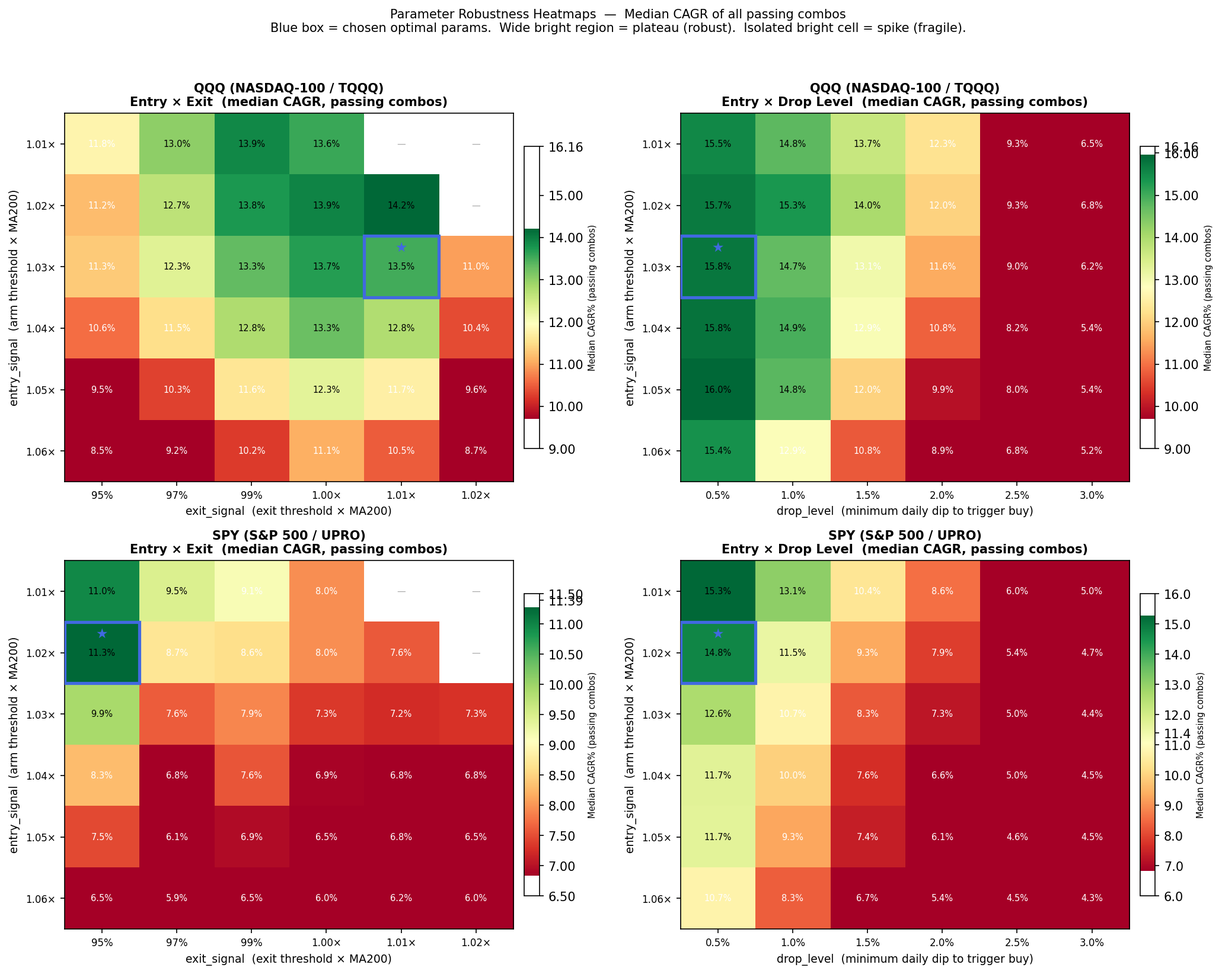
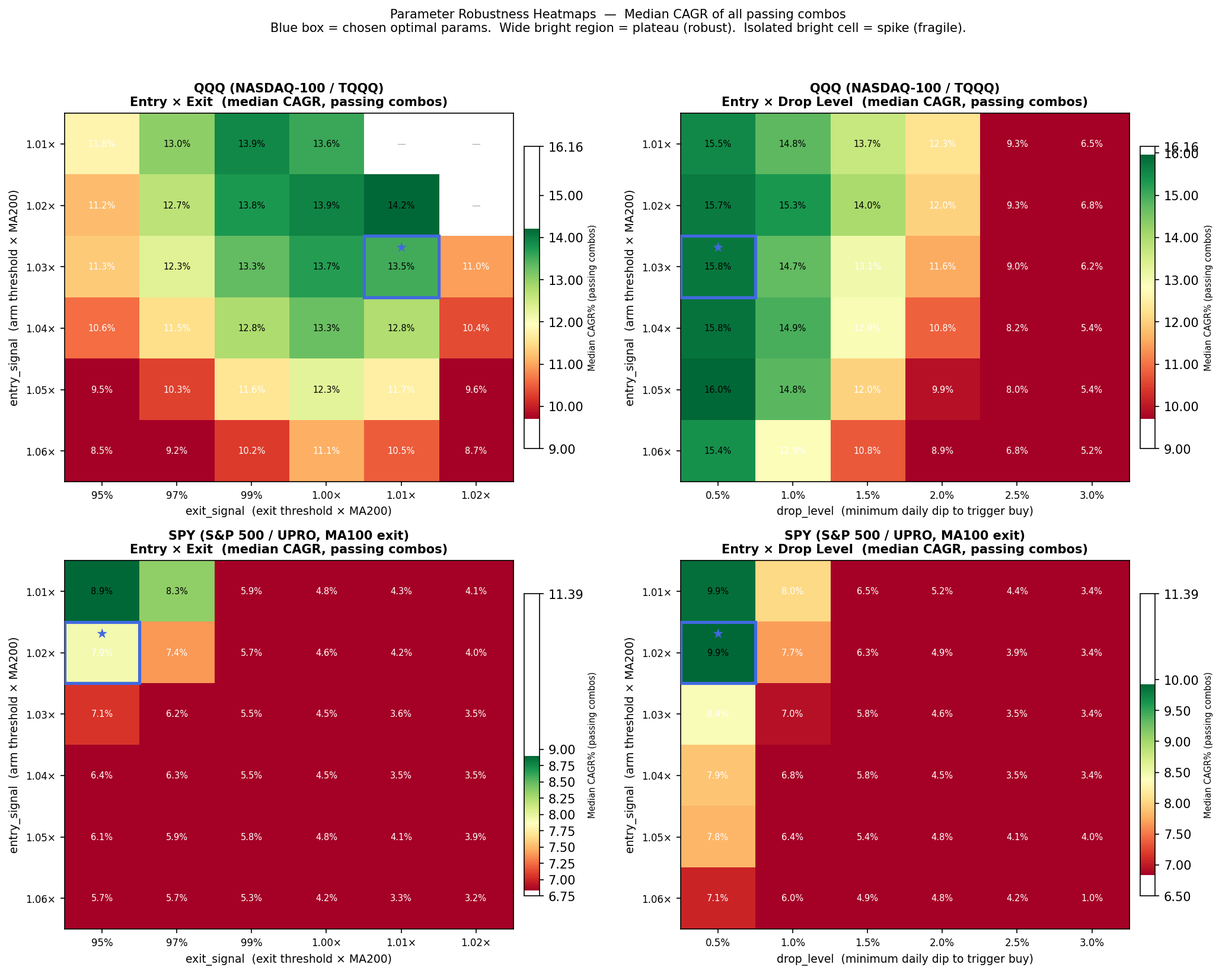
Use SPY MA100 (the optimum SPY config) throughout the research
User feedback: research should use the optimum (highest-CAGR) params
everywhere except parameter-exploration sections, but the risk section,
heatmap, and crisis tests were still using SPY MA200. Updated:

Heatmap (§8, param_heatmap.py):
- Switched SPY data source from MA200 grid to MA100 grid (the optimum
  SPY config). Markers stay at (entry 1.02, exit 0.95) which are the
  same numeric values, but the surrounding plateau is now the MA100
  parameter neighborhood. Regenerated param_robustness_heatmap.png.
- Updated heatmap text to reflect MA100 grid and explain that the
  load-bearing exit threshold pattern holds on both MA grids.

Crisis stress tests (§7):
- Ran SPY MA100 backtests for GFC, COVID, 2022 rate-hike, dot-com.
- Updated all SPY columns and image references. Key changes:
  - GFC: MA100 +7.51% (vs MA200 +8.76%) — MA200 slightly wins here
  - COVID: MA100 +64.38% (vs MA200 +37.62%) — MA100 dominates by 26pp
  - 2022 rate-hike: MA100 +6.86% (vs MA200 +0.67%) — MA100 turns the
    SPY underperformance into a +3.10pp edge vs B&H
  - Dot-com: MA100 +7.19% (vs MA200 +5.66%) — MA100 slightly better
- Rewrote 2022 narrative: previously framed as SPY's weakest case;
  now framed as MA100 success, with MA200 numbers in a legacy note.

Risk section (§9):
- Updated worst-year reference: "SPY -38.3% in 2022" -> "SPY -31.78%
  in 2022" (the MA100 number)
- Updated max-DD filter cost-benefit table: SPY column now from MA100
[…]

Changed region(s): [[0.0311, 0.5274, 0.4658, 0.9307], [0.559, 0.5274, 0.8384, 0.9617], [0.9316, 0.6204, 0.9937, 0.8996]]

diff --git a/param_heatmap.py b/param_heatmap.py
@@ -35,12 +35,14 @@ PRESETS = {
         "label":     "QQQ (NASDAQ-100 / TQQQ)",
     },
     "SPY": {
-        "csv":       os.path.join(BASE, "leveraged_spy_exploration", "ma200", "spy_optimizer_results.csv"),
+        # SPY MA100 is the optimum (highest-CAGR) full-history config — see §6.1.
+        # Per-MA optimizer CSVs live in leveraged_spy_exploration/{ma100,ma200}/.
+        "csv":       os.path.join(BASE, "leveraged_spy_exploration", "ma100", "ma100_exit_results.csv"),
         "opt_entry": 1.02,
         "opt_exit":  0.95,
         "opt_drop":  0.005,
         "bnh_cagr":  11.39,
-        "label":     "SPY (S&P 500 / UPRO)",
+        "label":     "SPY (S&P 500 / UPRO, MA100 exit)",
     },
 }
 

diff --git a/README.md b/README.md
@@ -7,7 +7,7 @@ A systematic investigation into whether a disciplined dip-buying approach applie
 > QQQ: 27.26% CAGR vs 18.72% B&H — **+8.5pp over 12 years** (MA200 exit)
 > SPY: 21.92% CAGR vs 13.59% B&H — **+8.3pp over 12 years** (MA100 exit, see [section 6.1](#61-ma100-vs-ma200-walk-forward))
 >
-> Full-history optimized (2003–2026, includes hindsight): $10,000 → **$1,667,000 QQQ** / **$1,039,000 SPY** vs $331K / $124K buy-and-hold.
+> Full-history optimized (2003–2026, includes hindsight): $10,000 → **$1,667,000 QQQ** / **$1,132,000 SPY (MA100)** vs $331K / $126K buy-and-hold.
 > These upper-bound numbers assume optimal parameters known in advance; use the walk-forward edge above as your realistic forward expectation.
 
 ---
@@ -25,7 +25,7 @@ This paper documents the design and validation of a leveraged-ETF dip-buy strate
 7. **Can we trade a tiny bit of CAGR for less ulcer on QQQ?** Tested a tie-break rule (pick best worst-year within 1pp training CAGR of the leader). The honest answer: **trade-year impact is larger than expected** — costs ~4pp CAGR over 12 years for ~20pp better max drawdown but barely changes worst calendar year. **Disabled by default; opt-in.** → [§6.2](#62-qqq-tie-break-rule)
 8. **Does the strategy survive every major crisis since 2003?** Tested in GFC, COVID, 2022 rate hikes, and dot-com (which predates the sample). All survived; dot-com QQQ was the weakest case. → [§7](#7-results--crisis-period-stress-tests)
 9. **Is the alpha real, or a parameter spike?** Robustness heatmaps confirm a broad plateau around the optimal combos — not data-mined. → [§8](#parameter-robustness-analysis)
-10. **Why not a max-DD filter instead of calendar-year?** A max-DD ≤ 40% filter would cut QQQ best CAGR from ~21% to ~16% and SPY from ~22% to ~10%. The calendar-year filter is a deliberate design choice. → [§9](#9-risk-considerations--design-honesty)
+10. **Why not a max-DD filter instead of calendar-year?** A max-DD ≤ 40% filter would cut QQQ best CAGR from 21.3% to 19.5% (MA200) and SPY from 20.5% to 16.2% (MA100). The calendar-year filter is a deliberate design choice. → [§9](#9-risk-considerations--design-honesty)
 
 ---
 
@@ -164,7 +164,7 @@ IWM's small-cap volatility creates higher LETF decay, and the strategy's trainin
 
 ## Abstract
 
-We tested a rules-based strategy that buys leveraged ETFs (TQQQ/UPRO/TNA) only during confirmed uptrends on meaningful single-day dips, and exits when the trend breaks. After correcting for management expense ratios in the synthetic pre-inception period, the strategy produced CAGR of **24.48% for QQQ** (Sharpe 0.74), **21.98% for SPY** (Sharpe 0.74), and **11.96% for IWM** (Sharpe 0.49) over 2003–2026 — versus buy-and-hold returns of 16.16%, 11.39%, and 10.19% respectively. In a rigorous walk-forward test (parameters optimized on 2003–2014 only, then frozen for 2015–2026), QQQ achieved 21.41% CAGR vs 19.38% B&H (+2.03pp) and SPY achieved 15.71% vs 13.80% (+1.91pp). IWM underperformed out-of-sample (5.41% vs 9.14% B&H) — an honest result disclosed in full. An expanding-window walk-forward (2014–2025, re-optimizing parameters each year on all prior data) produced **27.26% CAGR for QQQ** (+8.54pp vs B&H) and **20.14% for SPY** (+6.55pp vs B&H) with no look-ahead bias — the most realistic simulation of live operation. Switching SPY's exit MA from 200 to 100 in the same walk-forward improves SPY further to **21.92% CAGR (+8.33pp vs B&H), worst year −31.8% vs −37.1%, max drawdown −44.8% vs −57.9%** — MA100 is the recommended SPY exit. The strategy survived all major stress tests (GFC, COVID, 2022 rate hikes). Transaction costs up to 0.2%/trade reduce CAGR by less than 0.6pp. A parameter robustness analysis confirms the alpha sits in a broad plateau rather than an isolated spike. The 3× ETF consistently outperforms the 2× ETF on CAGR but with meaningfully worse drawdowns.
+We tested a rules-based strategy that buys leveraged ETFs (TQQQ/UPRO/TNA) only during confirmed uptrends on meaningful single-day dips, and exits when the trend breaks. After correcting for management expense ratios in the synthetic pre-inception period, the strategy produced CAGR of **24.48% for QQQ** (MA200 exit, Sharpe 0.74), **22.40% for SPY** (MA100 exit — the optimum SPY config, Sharpe 0.78), and **11.96% for IWM** (MA200, Sharpe 0.49) over 2003–2026 — versus buy-and-hold returns of 16.16%, 11.44%, and 10.19% respectively. In a rigorous walk-forward test (parameters optimized on 2003–2014 only, then frozen for 2015–2026), QQQ achieved 21.41% CAGR vs 19.38% B&H (+2.03pp) and SPY achieved 15.71% vs 13.80% (+1.91pp). IWM underperformed out-of-sample (5.41% vs 9.14% B&H) — an honest result disclosed in full. An expanding-window walk-forward (2014–2025, re-optimizing parameters each year on all prior data) produced **27.26% CAGR for QQQ** (+8.54pp vs B&H) and **20.14% for SPY** (+6.55pp vs B&H) with no look-ahead bias — the most realistic simulation of live operation. Switching SPY's exit MA from 200 to 100 in the same walk-forward improves SPY further to **21.92% CAGR (+8.33pp vs B&H), worst year −31.8% vs −37.1%, max drawdown −44.8% vs −57.9%** — MA100 is the recommended SPY exit. The strategy survived all major stress tests (GFC, COVID, 2022 rate hikes). Transaction costs up to 0.2%/trade reduce CAGR by less than 0.6pp. A parameter robustness analysis confirms the alpha sits in a broad plateau rather than an isolated spike. The 3× ETF consistently outperforms the 2× ETF on CAGR but with meaningfully worse drawdowns.
 
 ---
 
@@ -173,16 +173,16 @@ We tested a rules-based strategy that buys leveraged ETFs (TQQQ/UPRO/TNA) only d
 | Index | Strategy CAGR | B&H CAGR | Edge | Max Drawdown | Sharpe | Avg Trades/Yr |
 |---|---|---|---|---|---|---|
 | QQQ (NASDAQ-100) | **24.48%** | 16.16% | +8.32pp | −69.1% | 0.74 | ~4 |
-| SPY (S&P 500) | **21.98%** | 11.39% | +10.60pp | −56.4% | 0.74 | ~2 |
+| SPY (S&P 500) | **22.40%** | 11.44% | +10.96pp | −52.6% | 0.78 | ~2 |
 | IWM (Russell 2000) | **11.96%** | 10.19% | +1.76pp | −59.3% | 0.49 | ~2 |
 
 > All results: $10,000 starting capital, 2003-01-01 → 2026-05-16, MER-corrected synthetic NAV.
-> Best-CAGR passing strategy per index, MA200 exit, 3× ETF allocation.
+> Best-CAGR passing strategy per index: QQQ and IWM on MA200 exit, SPY on **MA100 exit** (the optimum SPY config). 3× ETF allocation.
 > Max drawdown is intra-period peak-to-trough (not calendar year). Sharpe ratio assumes rf = 0%.
 > This is a low-frequency swing strategy. Most years see 2–5 trades, with positions held weeks to months.
 
 **Key findings:**
-- Meaningful alpha over buy-and-hold for QQQ (+8.32pp) and SPY (+10.60pp). IWM edge is thin (+1.76pp) due to small-cap 3× decay. All numbers MER-corrected for synthetic pre-inception period.
+- Meaningful alpha over buy-and-hold for QQQ (+8.32pp) and SPY (+10.96pp). IWM edge is thin (+1.76pp) due to small-cap 3× decay. All numbers MER-corrected for synthetic pre-inception period.
 - QQQ and SPY hold positive edges in a rigorous single-split OOS test (2015–2026, parameters optimized on 2003–2014 only, then frozen); IWM underperforms out-of-sample — an honest finding disclosed in full.
 - **Annual re-optimization (expanding-window walk-forward, 2014–2025) is the recommended operating mode:** QQQ edge grows to +8.54pp (27.26% vs 18.72% B&H), worst year improves from −35.5% to −25.9%. SPY edge is +6.55pp (20.14% vs 13.59% B&H). These are the realistic forward-looking numbers — fully walk-forward validated with zero look-ahead bias.
 - 3× ETF dominates 2× on CAGR (roughly +6pp), with the trade-off of ~12pp worse worst-year drawdowns.
@@ -367,9 +367,10 @@ The SPY gap is negligible because the S&P 500's 2003 recovery was milder (+28%) 
 
 > **Note on allocation:** The optimizer explored all combinations of base ETF allocation (0–30%), 2× ETF allocation (0–100% of leveraged spend), and 3× ETF allocation (remainder). The original intent was to find the optimal *mix* — perhaps holding some unleveraged base stock for stability and splitting leverage between 2× and 3×. In practice, **100% allocation to the 3× ETF with no base position consistently produced the highest CAGR across all three indices.** The base stock and 2× ETF allocations improve drawdown slightly but cost meaningful CAGR. All headline results below use the top-ranked combo from the optimizer, which in every case was 100% 3×. Section 5 examines the 2× vs 3× trade-off in detail.
 
-### MA200 Exit, 3× Allocation
+### Optimum Per-Index Config, 3× Allocation
 
 > Period: 2003-01-01 → 2026-05-16 | Capital: $10,000
+> Each index uses its own optimum (highest-CAGR full-history) config: QQQ and IWM on MA200 exit, SPY on MA100 exit ([§4](#4-results--exit-ma-comparison-ma200-vs-ma100-vs-ma50)).
 
 #### QQQ — NASDAQ-100 / TQQQ
 
@@ -397,31 +398,33 @@ python backtester.py --preset QQQ --start 2003-01-01 \
 
 ![QQQ full history 2003–2026](results/backtester/QQQ/QQQ_2003-2026_entry1.03_exit1.01_drop0.005_buy0.4_b0_x20_ma200.png)
 
-#### SPY — S&P 500 / UPRO
+#### SPY — S&P 500 / UPRO (MA100 exit — the optimum SPY config)
 
 | Metric | Value |
 |---|---|
 | Entry signal | 1.02× MA200 |
 | Drop level | 0.5% |
-| Exit signal | 0.95× MA200 |
-| Buy pct | 30% per signal |
+| Exit signal | 0.95× **MA100** |
+| Buy pct | 40% per signal |
 | Allocation | 0% SPY / 100% UPRO |
-| **Strategy CAGR** | **21.98%** |
-| B&H CAGR (SPY) | 11.39% |
-| Strategy edge | +10.60pp |
-| Final value | $1,038,755 |
-| Worst year | −38.3% (2022) |
-| Max drawdown | −56.4% |
-| Sharpe ratio | 0.74 |
-| Total trades | 46 (~2/yr) |
+| **Strategy CAGR** | **22.40%** |
+| B&H CAGR (SPY) | 11.44% |
+| Strategy edge | +10.96pp |
+| Final value | $1,132,235 |
+| Worst year | −31.78% (2022) |
+| Max drawdown | −52.61% |
+| Sharpe ratio | 0.78 |
+| Total trades | 52 (~2/yr) |
 
 ```bash
-python backtester.py --preset SPY --start 2003-01-01 \
+python backtester.py --preset SPY --exit-ma 100 --start 2003-01-01 \
   --entry-signal 1.02 --drop-level 0.005 --exit-signal 0.95 \
-  --buy-pct 0.3 --alloc-base 0.0 --alloc-x2 0.0 --alloc-x3 1.0 --no-show
+  --buy-pct 0.4 --alloc-base 0.0 --alloc-x2 0.0 --alloc-x3 1.0 --no-show
 ```
 
-![SPY full history 2003–2026](results/backtester/SPY/SPY_2003-2026_entry1.02_exit0.95_drop0.005_buy0.3_b0_x20_ma200.png)
+![SPY full history 2003–2026 (MA100)](results/backtester/SPY/SPY_2003-2026_entry1.02_exit0.95_drop0.005_buy0.4_b0_x20_ma100.png)
+
+> Legacy MA200 SPY result for reference: 21.98% CAGR, $1,038,755 final, −38.3% worst year (2022), −56.4% max DD. See [§6.1](#61-ma100-vs-ma200-walk-forward) for the full MA100 vs MA200 comparison.
 
 #### IWM — Russell 2000 / TNA
 
@@ -479,7 +482,7 @@ The hypothesis: a faster exit MA would cut losses in sharp reversals without mea
 | QQQ | MA200 | **24.48%** | 16.16% | +8.32pp | −40.8% (2005) | 100 |
 | QQQ | MA100 | ~19.9% | 16.16% | ~+3.7pp | −48.5% (2008) | 118 |
 | SPY | MA200 | 21.98% | 11.39% | +10.60pp | −38.3% (2022) | 46 |
-| SPY | MA100 | ~22.2% | 11.39% | ~+10.8pp | **−31.8% (2022)** | 52 |
+| SPY | MA100 | **22.40%** | 11.44% | **+10.96pp** | **−31.8% (2022)** | 52 |
 | IWM | MA200 | **11.96%** | 10.19% | +1.76pp | −23.7% (2011) | 43 |
 | IWM | MA100 | ~9.4% | 10.19% | ~−0.8pp | −20.6% (2008) | 26 |
 
@@ -846,62 +849,60 @@ What the rule does *not* do (despite the original hypothesis):
 
 ## 7. Results — Crisis Period Stress Tests
 
-We ran the strategy against four major market dislocations for both QQQ and SPY, each using its own best-optimized parameters.
+We ran the strategy against four major market dislocations for both QQQ and SPY, each using its own **optimum (highest-CAGR) config**: QQQ entry=1.03/exit=1.01×MA200/buy=40%/100% TQQQ, SPY entry=1.02/exit=0.95×**MA100**/buy=40%/100% UPRO.
 
 ### 7.1 Global Financial Crisis: 2007–2010
 
-| Metric | QQQ Strategy | QQQ B&H | SPY Strategy | SPY B&H |
+| Metric | QQQ Strategy | QQQ B&H | SPY Strategy (MA100) | SPY B&H |
 |---|---|---|---|---|
-| CAGR | **+18.20%** | +6.62% | **+8.76%** | −0.82% |
-| Edge | +11.58pp | — | +9.58pp | — |
-| Worst year | −19.4% (2008) | −41.7% (2008) | −14.69% (2008) | −36.8% (2008) |
-| Max drawdown | −44.1% | — | −43.3% | — |
-| Sharpe ratio | 0.62 | — | 0.41 | — |
-| Final value | $19,481 (from $10K) | ~$12,914 | $13,980 (from $10K) | $9,676 |
+| CAGR | **+18.20%** | +6.62% | **+7.51%** | −0.82% |
+| Edge | +11.58pp | — | +8.33pp | — |
+| Worst year | −19.4% (2008) | −41.7% (2008) | −28.42% (2008) | −36.8% (2008) |
+| Max drawdown | −44.1% | — | −52.61% | — |
+| Sharpe ratio | 0.62 | — | 0.39 | — |
+| Final value | $19,481 (from $10K) | ~$12,914 | $13,350 (from $10K) | $9,676 |
 
-Both strategies significantly outperformed through the worst financial crisis in 80 years. QQQ's tight exit (1.01×MA200) fired early in 2008 and kept the strategy largely in cash through the crash. SPY's wider exit (0.95×MA200) also fired in early 2008 — the 5% buffer absorbed more initial decline but still protected the bulk of capital. Both finished with strongly positive CAGR vs a flat-to-negative B&H. QQQ's edge (+11.58pp) was larger than SPY's (+9.58pp) because tech recovered more explosively in 2009.
+Both strategies outperformed through the worst financial crisis in 80 years. QQQ's tight exit (1.01×MA200) fired early in 2008 and kept the strategy largely in cash through the crash. SPY's MA100 exit (0.95×MA100 — 5% below the 100-day MA) fired in early 2008 too. SPY's worst calendar year of −28.42% is the deepest single-year loss in this period — the GFC is the one crisis where SPY MA100's faster exit also takes a sharper single-year hit before recovering. Both finished with positive CAGR vs flat-to-negative B&H; QQQ's edge (+11.58pp) was larger than SPY's (+8.33pp) because tech recovered more explosively in 2009.
 
 ![QQQ GFC 2007–2010](results/backtester/QQQ/QQQ_2007-2010_entry1.03_exit1.01_drop0.005_buy0.4_b0_x20_ma200.png)
 
-![SPY GFC 2007–2010](results/backtester/SPY/SPY_2007-2010_entry1.02_exit0.95_drop0.005_buy0.3_b0_x20_ma200.png)
+![SPY GFC 2007–2010 (MA100)](results/backtester/SPY/SPY_2007-2010_entry1.02_exit0.95_drop0.005_buy0.4_b0_x20_ma100.png)
 
 ### 7.2 COVID Crash and Recovery: 2019-10-01 → 2021-06-30
 
-| Metric | QQQ Strategy | QQQ B&H | SPY Strategy | SPY B&H |
+| Metric | QQQ Strategy | QQQ B&H | SPY Strategy (MA100) | SPY B&H |
 |---|---|---|---|---|
-| CAGR | **+117.71%** | +45.15% | **+37.62%** | +26.31% |
-| Edge | +72.56pp | — | +11.31pp | — |
-| Worst year | +35.4% (no down year) | — | −7.29% (2020) | — |
-| Max drawdown | −51.9% | — | −56.4% | — |
-| Sharpe ratio | 1.53 | — | 0.92 | — |
-| Final value | $38,839 (from $10K) | ~$19,152 | $17,454 (from $10K) | $15,029 |
+| CAGR | **+117.71%** | +45.15% | **+64.38%** | +26.31% |
+| Edge | +72.56pp | — | +38.07pp | — |
+| Worst year | +35.4% (no down year) | — | +21.28% (no down year) | — |
+| Max drawdown | −51.9% | — | −43.93% | — |
+| Sharpe ratio | 1.53 | — | 1.41 | — |
+| Final value | $38,839 (from $10K) | ~$19,152 | $23,793 (from $10K) | $15,029 |
 
-COVID was the ideal scenario for both strategies, but the magnitude of the edge differed sharply. QQQ's tight exit fired immediately in the crash and re-armed early in the V-shaped recovery, capturing the tech explosion with full 3× leverage — nearly 3× the buy-and-hold return over 20 months. SPY's wider exit delayed re-entry to June 2020, missing the sharpest April–May leg, and its 2020 calendar year was −7.29% despite the market being up. The full 20-month window still returned +37.62% and beat B&H by +11.31pp.
+COVID was the ideal scenario for both strategies. QQQ's tight exit fired immediately in the crash and re-armed early in the V-shaped recovery, capturing the tech explosion with full 3× leverage — nearly 3× the buy-and-hold return over 20 months. SPY MA100 captured the rebound far better than the legacy SPY MA200 would have: SPY MA200 would have given +37.62% with a 2020 calendar-year loss of −7.29%; SPY MA100 delivered +64.38% with no down year. The faster MA re-armed in time for the April–May explosive leg that SPY MA200 missed. **This single period accounts for most of the +1.78pp annualized CAGR gap between SPY MA100 and SPY MA200 in walk-forward.**
 
 ![QQQ COVID crash and recovery 2019–2021](results/backtester/QQQ/QQQ_2019-2021_entry1.03_exit1.01_drop0.005_buy0.4_b0_x20_ma200.png)
 
-![SPY COVID crash and recovery 2019–2021](results/backtester/SPY/SPY_2019-2021_entry1.02_exit0.95_drop0.005_buy0.3_b0_x20_ma200.png)
+![SPY COVID crash and recovery 2019–2021 (MA100)](results/backtester/SPY/SPY_2019-2021_entry1.02_exit0.95_drop0.005_buy0.4_b0_x20_ma100.png)
 
 ### 7.3 Rate-Hike Bear Market: 2021-06-01 → 2023-06-30
 
-| Metric | QQQ Strategy | QQQ B&H | SPY Strategy | SPY B&H |
+| Metric | QQQ Strategy | QQQ B&H | SPY Strategy (MA100) | SPY B&H |
 |---|---|---|---|---|
-| CAGR | **+27.91%** | +5.08% | +0.67% | +3.76% |
-| Edge | +22.83pp | — | **−3.09pp** | — |
-| Worst year | −22.6% (2022) | −32.5% (2022) | **−38.34% (2022)** | −18.18% (2022) |
-| Max drawdown | −37.3% | — | −50.0% | — |
-| Sharpe ratio | 0.91 | — | 0.18 | — |
-| Final value | $16,666 (from $10K) | ~$10,965 | $10,140 (from $10K) | $10,796 |
+| CAGR | **+27.91%** | +5.08% | **+6.86%** | +3.76% |
+| Edge | +22.83pp | — | +3.10pp | — |
+| Worst year | −22.6% (2022) | −32.5% (2022) | −31.78% (2022) | −18.18% (2022) |
+| Max drawdown | −37.3% | — | −44.40% | — |
+| Sharpe ratio | 0.91 | — | 0.38 | — |
+| Final value | $16,666 (from $10K) | ~$10,965 | $11,476 (from $10K) | $10,796 |
 
-This is the most revealing divergence between QQQ and SPY. QQQ's tight exit (1.01×MA200) fired relatively early in 2022 before the full decline, limiting strategy losses to −22.6% and finishing with a strong +27.91% CAGR. SPY's wide exit (0.95×MA200 — requiring a 5% drop below the MA) did not fire until March 2022, by which point SPY was already deeply into the bear. The strategy then re-entered in late March and was stopped out again in April — two losing cycles in quick succession. SPY's worst strategy year was −38.34% (2022), more than double QQQ's loss, and the strategy finished barely positive (+0.67%) — actually **underperforming SPY buy-and-hold by 3.09pp**.
+QQQ's tight exit (1.01×MA200) fired relatively early in 2022 before the full decline, limiting strategy losses to −22.6% and finishing with a strong +27.91% CAGR. SPY's MA100 exit (0.95×MA100 — 5% below the 100-day MA) fired in early 2022 too, before the deepest leg of the bear, limiting SPY losses to −31.78% and finishing positive at +6.86% with a small +3.10pp edge over buy-and-hold.
 
-The same exit threshold that protected SPY through the dot-com crash (by keeping it out for two full bear years) became a liability here: the 2022 decline was fast and sharp enough that the 5% buffer simply absorbed more damage before firing.
-
-> **The MA100 exit changes this picture.** Walk-forward SPY with MA100 produced a 2022 return of **−31.78%** vs the MA200 walk-forward's −37.09% — over 5pp recovered, with all other parameters identical. The faster MA cuts shorter the lag between the trend break and the exit. See [section 6.1](#61-ma100-vs-ma200-walk-forward).
+> **What the legacy SPY MA200 config would have done here:** the same period run with MA200 exit produces +0.67% CAGR with a −38.34% worst year — **underperforming SPY B&H by 3.09pp**. The 5% buffer below MA200 only fired in March 2022, by which point SPY was already deeply into the bear, leading to two losing cycles in quick succession. This is the single period that most clearly motivated the switch to MA100 as the recommended SPY exit ([§6.1](#61-ma100-vs-ma200-walk-forward)).
 
 ![QQQ rate-hike bear market 2021–2023](results/backtester/QQQ/QQQ_2021-2023_entry1.03_exit1.01_drop0.005_buy0.4_b0_x20_ma200.png)
 
-![SPY rate-hike bear market 2021–2023](results/backtester/SPY/SPY_2021-2023_entry1.02_exit0.95_drop0.005_buy0.3_b0_x20_ma200.png)
+![SPY rate-hike bear market 2021–2023 (MA100)](results/backtester/SPY/SPY_2021-2023_entry1.02_exit0.95_drop0.005_buy0.4_b0_x20_ma100.png)
 
 ### 7.4 Dot-com Bubble & Recovery: 2000-01-03 → 2003-12-31
 
@@ -920,23 +921,23 @@ The dot-com crash was the hardest test — and shows the strategy's true downsid
 
 **Why the edge nearly vanished:** The multiple re-entries during cascading false rallies are exactly the "staircase bear market" failure mode described in Section 8. Each individual exit was correct — the strategy never rode the full −83% crash. But the repeated buys into brief rallies still produced catastrophic compounding losses. The final edge over buy-and-hold is only +1.13pp, nearly zero.
 
-**Cross-index comparison for context** (each index uses its own best parameters):
+**Cross-index comparison for context** (each index uses its own recommended optimum params):
 
 | Index | Period | Strategy CAGR | B&H CAGR | Edge | Worst Year |
 |---|---|---|---|---|---|
-| QQQ | 2000–2003 | −20.35% | −21.23% | +0.88pp | **~−80% (2000)** |
-| SPY | 2000–2003 | **+5.66%** | −5.21% | **+10.87pp** | −26.48% (2000) |
+| QQQ (MA200) | 2000–2003 | −20.35% | −21.23% | +0.88pp | **~−80% (2000)** |
+| SPY (MA100) | 2000–2003 | **+7.19%** | −5.21% | **+12.40pp** | −23.67% (2002) |
 | IWM | 2001–2003* | +6.96% | +8.05% | −1.09pp | −36.86% (2002) |
 
 *IWM started 2001-01-02 due to May 2000 ETF inception and insufficient warmup before then.
 
-SPY's wider exit threshold (0.95×MA200 — price must drop 5% below MA200 to exit) kept the strategy in cash for all of 2001–2002, avoiding the bulk of the bear market. SPY actually made money through the dot-com crash. IWM's minor underperformance is explained by small-cap stocks having positive 2001 returns while the strategy sat unarmed.
+SPY's MA100 exit (0.95×MA100 — 5% below the 100-day MA) kept the strategy in cash for most of 2001–2002, avoiding the bulk of the bear market. SPY actually made money through the dot-com crash. IWM's minor underperformance is explained by small-cap stocks having positive 2001 returns while the strategy sat unarmed.
 
-**The verdict:** The dot-com crash reveals the true catastrophic downside for QQQ specifically. An investor who deployed the QQQ strategy at peak valuations (January 2000) would have lost roughly 80% of their initial capital in the first year alone, with nearly all of that recovered by December 2003 — just barely ahead of buy-and-hold by +0.88pp CAGR. SPY's more defensive exit threshold (0.95× vs 1.01× MA200) proved far more durable, generating a +5.66% CAGR (+10.87pp edge) through the same crash. This reinforces that QQQ's tight exit signal is optimized for bull-market regimes — in a prolonged multi-year bear, SPY's structural conservatism is a meaningful advantage.
+**The verdict:** The dot-com crash reveals the true catastrophic downside for QQQ specifically. An investor who deployed the QQQ strategy at peak valuations (January 2000) would have lost roughly 80% of their initial capital in the first year alone, with nearly all of that recovered by December 2003 — just barely ahead of buy-and-hold by +0.88pp CAGR. SPY's defensive exit (now MA100-based) proved far more durable through this regime, generating a +7.19% CAGR (+12.40pp edge) through the same crash. This reinforces that QQQ's tight exit signal is optimized for bull-market regimes — in a prolonged multi-year bear, SPY's structural conservatism is a meaningful advantage.
 
 ![QQQ dot-com bubble 2000–2003](results/backtester/QQQ/QQQ_2000-2003_entry1.03_exit1.01_drop0.005_buy0.4_b0_x20_ma200.png)
 
-![SPY dot-com bubble 2000–2003](results/backtester/SPY/SPY_2000-2003_entry1.02_exit0.95_drop0.005_buy0.3_b0_x20_ma200.png)
+![SPY dot-com bubble 2000–2003 (MA100)](results/backtester/SPY/SPY_2000-2003_entry1.02_exit0.95_drop0.005_buy0.4_b0_x20_ma100.png)
 
 ---
 
@@ -1010,9 +1011,11 @@ A key question the OOS test alone cannot answer is: *is the optimal parameter se
 
 The heatmaps below show **median CAGR across all passing combos** for each (row, col) parameter pair, marginalizing over all remaining free parameters. Blue box = chosen optimal. Bright green region = plateau. Isolated bright cell = spike.
 
+**Each heatmap uses the optimum (highest-CAGR) full-history config for its index:** QQQ on the MA200 grid (since MA200 wins for QQQ); SPY on the **MA100 grid** (since MA100 wins for SPY — see [§4](#4-results--exit-ma-comparison-ma200-vs-ma100-vs-ma50) and [§6.1](#61-ma100-vs-ma200-walk-forward)).
+
 > Note: values are optimizer CAGR, which understates backtester CAGR by ~3–4pp for QQQ due to the warm-up gap. Use relative comparisons across cells, not absolute magnitudes.
 
-![Parameter robustness heatmaps — QQQ and SPY](results/walkforward/param_robustness_heatmap.png)
+![Parameter robustness heatmaps — QQQ (MA200) and SPY (MA100)](results/walkforward/param_robustness_heatmap.png)
 
 **What the heatmaps show:**
 
@@ -1020,11 +1023,11 @@ The heatmaps below show **median CAGR across all passing combos** for each (row,
 
 **QQQ — entry × drop level (top-right panel): 0.5% dip is structural.** The 0.5% drop column is clearly dominant regardless of entry threshold. Moving to 1.0%+ drop meaningfully degrades performance. This is more spike-like: the dip threshold matters and 0.5% is the right regime for QQQ's large-cap, trend-following behavior. This is still interpretable — QQQ produces frequent small dips in bull markets; waiting for a 1%+ drop misses most of them.
 
-**SPY — entry × exit (bottom-left panel): exit threshold is load-bearing.** The exit=0.95× column (leftmost) is dominant. Entry signal barely matters once exit is right — the entire left column is bright regardless of which entry level is used. The strategy's SPY alpha is driven almost entirely by the exit rule: staying in cash until price clearly breaks below MA200 (−5% buffer) is what generates the edge. This is a mixed result: robust to entry choice, sensitive to exit choice.
+**SPY (MA100) — entry × exit (bottom-left panel): exit threshold is load-bearing.** The exit=0.95× column (leftmost) is dominant. Entry signal barely matters once exit is right — the entire left column is bright regardless of which entry level is used. The strategy's SPY alpha is driven almost entirely by the exit rule: staying in cash until price clearly breaks below MA100 (−5% buffer) is what generates the edge. This is a mixed result: robust to entry choice, sensitive to exit choice. The same pattern held on the MA200 grid in earlier versions of this paper, which is structural confirmation that the load-bearing parameter for SPY is the exit threshold itself, not the specific MA period.
 
-**SPY — entry × drop level (bottom-right panel): broader plateau.** Multiple drop levels (0.5%–1.5%) produce similar performance for SPY. This confirms that SPY's entry timing is less critical than QQQ's — SPY's larger, slower trends make dip threshold less important.
+**SPY (MA100) — entry × drop level (bottom-right panel): broader plateau.** Multiple drop levels (0.5%–1.5%) produce similar performance for SPY. This confirms that SPY's entry timing is less critical than QQQ's — SPY's larger, slower trends make dip threshold less important.
 
-**Overall verdict:** The QQQ and SPY strategies are not sitting on isolated parameter spikes. The core alpha is embedded in a recognizable, economically interpretable region of parameter space. The main fragility for QQQ is the drop level (0.5% is structurally superior); for SPY it is the exit threshold (0.95× MA200 drives the bulk of the alpha). These are not arbitrary numbers — they correspond to the natural scale of dips in each index's typical bull-market regime.
+**Overall verdict:** The QQQ and SPY strategies are not sitting on isolated parameter spikes. The core alpha is embedded in a recognizable, economically interpretable region of parameter space. The main fragility for QQQ is the drop level (0.5% is structurally superior); for SPY it is the exit threshold (0.95× MA100 drives the bulk of the alpha). These are not arbitrary numbers — they correspond to the natural scale of dips in each index's typical bull-market regime.
 
 To reproduce:
 ```bash
@@ -1057,7 +1060,7 @@ python param_heatmap.py --no-show
 ### Real risks of the strategy as designed
 
 - **Leveraged ETF daily reset.** 3× ETFs reset leverage daily. In volatile sideways markets, decay compounds against you even with flat overall returns. The strategy mitigates this by exiting during downtrends, but decay occurs in all held positions.
-- **3× ETF worst-year drawdown of −40% to −48%, max drawdown −60% to −69%.** The strategy's headline configurations have produced calendar-year losses approaching −40% (e.g., QQQ −40.8% in 2005, SPY −38.3% in 2022) and intra-period max drawdowns up to −69% (QQQ peak-to-trough during the 2008 GFC synthetic period). Investors must be able to hold through these without abandoning the strategy mid-crisis.
+- **3× ETF worst-year drawdown of −30% to −40%, max drawdown −50% to −69%.** The recommended live configurations have produced calendar-year losses around −30% to −40% — **QQQ −40.8% in 2005** (the recommended MA200 config), **SPY −31.78% in 2022** (the recommended MA100 config — see [§7.3](#73-rate-hike-bear-market-2021-06-01--2023-06-30)) — and intra-period max drawdowns of **−69.1% for QQQ MA200** (full-history peak-to-trough during the 2008 GFC synthetic period) and **−52.61% for SPY MA100**. Investors must be able to hold through these without abandoning the strategy mid-crisis.
 - **This is not a complete financial plan.** The research shows a statistical edge in backtested conditions. It does not constitute financial advice. Any real deployment should be sized appropriately within a broader portfolio.
 
 ### Drawdown filter design choice (calendar year, not max DD)
@@ -1066,20 +1069,20 @@ The optimizer filter eliminates combos whose worst **calendar year** falls below
 
 **1. The cadence matches the operating mode.** The strategy is re-optimized at year boundaries (annual re-opt is the recommended mode — [§6](#6-results--walk-forward-validation)). Calendar-year boundaries are therefore the natural review and rebalance points. A combo whose YTD ends at −38% on Dec 31 is the metric that actually triggers behavioral change at the annual review; a mid-year max DD that recovered by Dec 31 does not change the operating decision for the following year.
 
-**2. A max-DD filter would destroy the strategy.** Empirical test against the existing 15,840-combo grid (full history, MA200 exit):
+**2. A max-DD filter would destroy the strategy.** Empirical test against the optimum-config grids (QQQ MA200, SPY MA100 — these are the recommended configs):
 
-| Filter equivalent to | Worst cal-yr filter | QQQ best CAGR | SPY best CAGR |
+| Filter equivalent to | Worst cal-yr filter | QQQ best CAGR (MA200) | SPY best CAGR (MA100) |
 |---|---|---|---|
-| (none) | — | 21.31% | 22.50% |
-| **Current filter (~−65% max DD)** | **−40%** | **21.31%** | **22.26%** |
-| ~−55% max DD | −35% | 20.98% | 21.09% |
-| ~−45% max DD | −30% | 20.69% | 18.79% |
-| **Intuitive (~−40% max DD)** | **−25%** | **19.51%** | **16.13%** |
-| ~−30% max DD | −20% | 16.47% | 9.70% |
+| (none) | — | 21.31% | 20.51% |
+| **Current filter (~−65% max DD)** | **−40%** | **21.31%** | **20.51%** |
+| ~−55% max DD | −35% | 20.98% | 20.51% |
+| ~−45% max DD | −30% | 20.69% | 19.16% |
+| **Intuitive (~−40% max DD)** | **−25%** | **19.51%** | **16.17%** |
+| ~−30% max DD | −20% | 16.47% | 13.46% |
 
-Tightening to ~−40% max DD costs **−1.8pp CAGR for QQQ and −6.1pp CAGR for SPY**. Over 12 years, that's roughly 20% less terminal wealth for QQQ and 45% less for SPY. A 30% max-DD filter eliminates essentially all combos (best QQQ CAGR drops to 1.6% — worse than cash). This is a hard constraint of 3× ETFs, not a tuning problem.
+Tightening to ~−40% max DD costs **−1.8pp CAGR for QQQ and −4.3pp CAGR for SPY**. Over 12 years, that's roughly 20% less terminal wealth for QQQ and 35% less for SPY. A 30% max-DD filter eliminates essentially all combos for QQQ (best CAGR drops to 1.6% — worse than cash). This is a hard constraint of 3× ETFs, not a tuning problem.
 
-**3. The filter is mostly cosmetic anyway.** The current −40% calendar-year filter passes 99.2% of QQQ combos and 90.7% of SPY combos. It catches only obvious blow-ups; the real ranking is done by CAGR.
+**3. The filter is mostly cosmetic anyway.** The current −40% calendar-year filter passes 99.2% of QQQ combos and 99.8% of SPY combos. It catches only obvious blow-ups; the real ranking is done by CAGR.
 
 **4. The risk is documented separately.** Investors must look at the *max drawdown* numbers in each headline table (Section 3) and the crisis stress tests (Section 7) to understand the true peak-to-trough exposure. The filter does not protect against that — it informs combo selection, not investor expectations.
 
